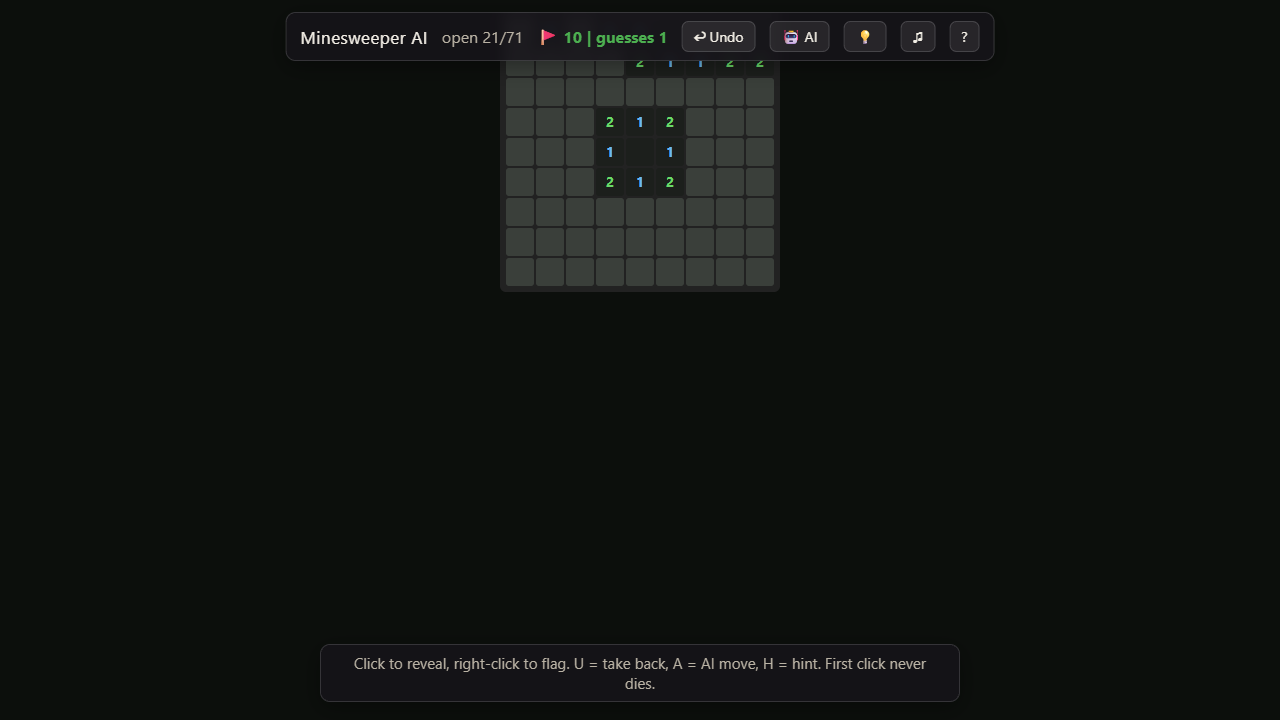
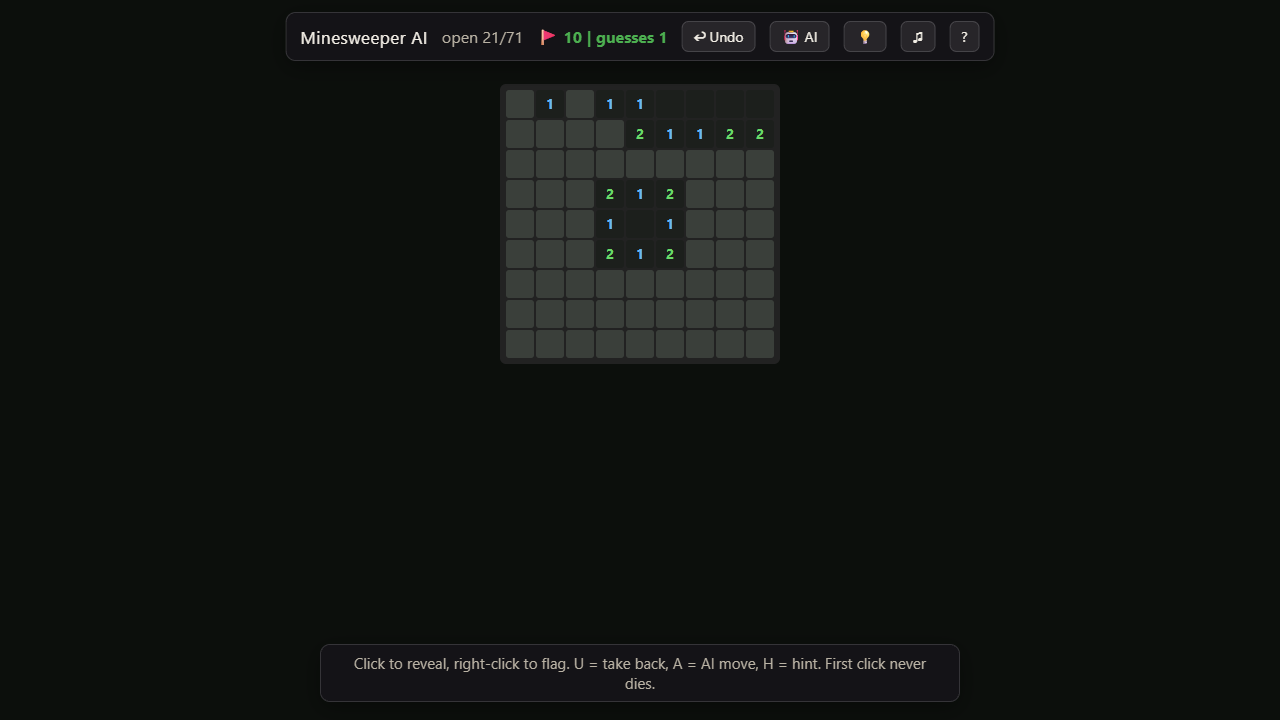
fix(puzzles): board no longer hides under the HUD, and fills a roomy screen
sudoku, sudoku-color, sudoku-letters and minesweeper started their board 12px from the top while the shared HUD bar is fixed there, so the top row was covered. Board now starts below the bar; on screens at least 700x760 it is scaled 1.45x. Phones are unchanged. Gate passes for all four, thumbnails refreshed.

Claude-Session: https://claude.ai/code/session_018dTunm6jJyN2wuD6oJnSBt

Changed region(s): [[0.375, 0.0611, 0.625, 0.5194]]

diff --git a/web/games/sudoku-color/index.html b/web/games/sudoku-color/index.html
@@ -6,7 +6,8 @@
 <link rel="stylesheet" href="../_shared/ui.css">
 <style>
   :root { --accent: #6ab8f2; --bg: #0c0e12; }
-  #wrap { display: flex; gap: 12px; align-items: flex-start; justify-content: center; padding: 12px; }
+  #wrap { display: flex; gap: 12px; align-items: flex-start; justify-content: center; padding: 84px 12px 12px; }   /* top padding clears the fixed HUD bar */
+  @media (min-width: 700px) and (min-height: 760px) { #wrap { zoom: 1.45; padding-top: 58px; } #nums { zoom: 1.45; } }   /* roomy screens: bigger board, still clear of the HUD */
   #grid { display: grid; grid-template-columns: repeat(9, 34px); gap: 0; background: #222; padding: 6px; border-radius: 6px; }
   .cell { width: 34px; height: 34px; display: flex; align-items: center; justify-content: center; font: 700 16px/1 system-ui; background: #2a2e35; color: #fff; border: 1px solid #1c1f24; cursor: pointer; user-select: none; }
   .cell:nth-child(3n) { border-right: 2px solid #4a4f58; } .cell:nth-child(9n) { border-right: 1px solid #1c1f24; }

diff --git a/web/games/sudoku-letters/index.html b/web/games/sudoku-letters/index.html
@@ -6,7 +6,8 @@
 <link rel="stylesheet" href="../_shared/ui.css">
 <style>
   :root { --accent: #6ab8f2; --bg: #0c0e12; }
-  #wrap { display: flex; gap: 12px; align-items: flex-start; justify-content: center; padding: 12px; }
+  #wrap { display: flex; gap: 12px; align-items: flex-start; justify-content: center; padding: 84px 12px 12px; }   /* top padding clears the fixed HUD bar */
+  @media (min-width: 700px) and (min-height: 760px) { #wrap { zoom: 1.45; padding-top: 58px; } #nums { zoom: 1.45; } }   /* roomy screens: bigger board, still clear of the HUD */
   #grid { display: grid; grid-template-columns: repeat(9, 34px); gap: 0; background: #222; padding: 6px; border-radius: 6px; }
   .cell { width: 34px; height: 34px; display: flex; align-items: center; justify-content: center; font: 700 16px/1 system-ui; background: #2a2e35; color: #fff; border: 1px solid #1c1f24; cursor: pointer; user-select: none; }
   .cell:nth-child(3n) { border-right: 2px solid #4a4f58; } .cell:nth-child(9n) { border-right: 1px solid #1c1f24; }

diff --git a/web/games/sudoku/index.html b/web/games/sudoku/index.html
@@ -6,7 +6,8 @@
 <link rel="stylesheet" href="../_shared/ui.css">
 <style>
   :root { --accent: #6ab8f2; --bg: #0c0e12; }
-  #wrap { display: flex; gap: 12px; align-items: flex-start; justify-content: center; padding: 12px; }
+  #wrap { display: flex; gap: 12px; align-items: flex-start; justify-content: center; padding: 84px 12px 12px; }   /* top padding clears the fixed HUD bar */
+  @media (min-width: 700px) and (min-height: 760px) { #wrap { zoom: 1.45; padding-top: 58px; } #nums { zoom: 1.45; } }   /* roomy screens: bigger board, still clear of the HUD */
   #grid { display: grid; grid-template-columns: repeat(9, 34px); gap: 0; background: #222; padding: 6px; border-radius: 6px; }
   .cell { width: 34px; height: 34px; display: flex; align-items: center; justify-content: center; font: 700 16px/1 system-ui; background: #2a2e35; color: #fff; border: 1px solid #1c1f24; cursor: pointer; user-select: none; }
   .cell:nth-child(3n) { border-right: 2px solid #4a4f58; } .cell:nth-child(9n) { border-right: 1px solid #1c1f24; }

diff --git a/web/games/minesweeper/index.html b/web/games/minesweeper/index.html
@@ -6,7 +6,8 @@
 <link rel="stylesheet" href="../_shared/ui.css">
 <style>
   :root { --accent: #4caf50; --bg: #0c0f0c; }
-  #wrap { display: flex; gap: 12px; align-items: flex-start; justify-content: center; padding: 12px; }
+  #wrap { display: flex; gap: 12px; align-items: flex-start; justify-content: center; padding: 84px 12px 12px; }   /* top padding clears the fixed HUD bar */
+  @media (min-width: 700px) and (min-height: 760px) { #wrap { zoom: 1.45; padding-top: 58px; } #nums { zoom: 1.45; } }   /* roomy screens: bigger board, still clear of the HUD */
   #board { display: grid; gap: 2px; background: #222; padding: 6px; border-radius: 6px; }
   .cell { width: 28px; height: 28px; display: flex; align-items: center; justify-content: center; font: 700 14px/1 system-ui; background: #3a3f3a; color: #fff; border-radius: 3px; cursor: pointer; user-select: none; }
   .cell.open { background: #1c1f1c; cursor: default; }
